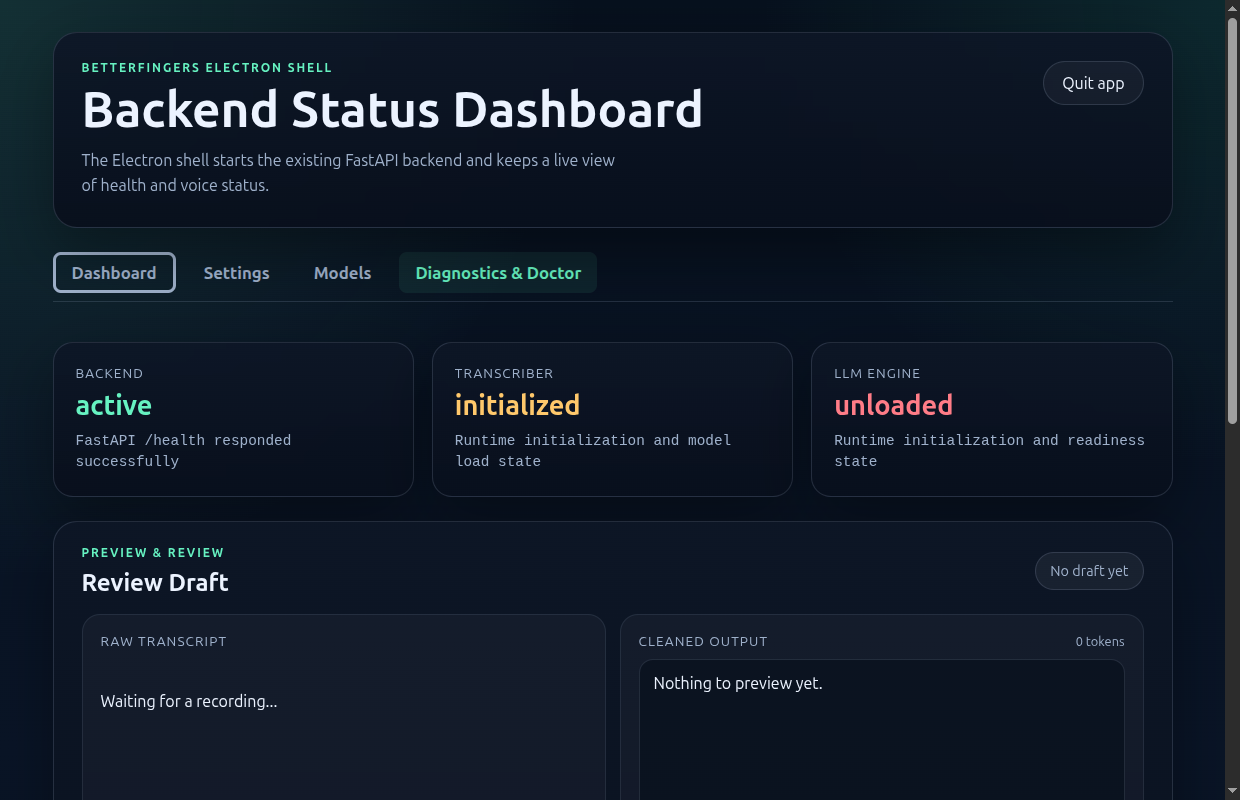
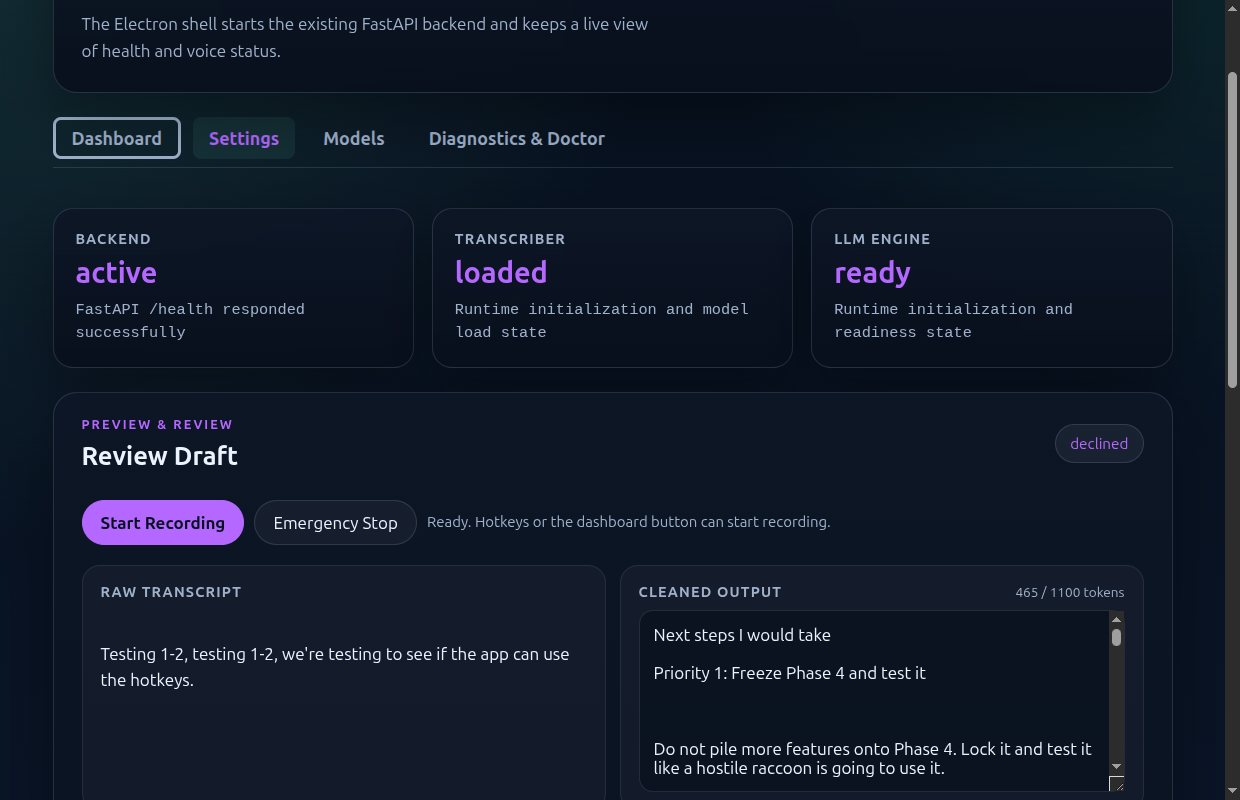
Testing Confirm

diff --git a/app/tests/electron-smoke.spec.js b/app/tests/electron-smoke.spec.js
@@ -1,7 +1,6 @@
 const { test, expect } = require('@playwright/test');
 const { _electron: electron } = require('playwright');
 const path = require('node:path');
-const fs = require('node:fs');
 
 test.describe('BetterFingers Electron App Tests', () => {
   let app;
@@ -18,8 +17,18 @@ test.describe('BetterFingers Electron App Tests', () => {
       },
     });
 
-    // Wait for the first window to open
-    window = await app.firstWindow();
+    // Wait for the main window (index.html) to open and load
+    const windows = app.windows();
+    window = windows.find(w => w.url().includes('index.html'));
+    if (!window) {
+      window = await app.waitForEvent('window', {
+        predicate: (w) => w.url().includes('index.html'),
+        timeout: 20000,
+      });
+    }
+
+    await window.waitForLoadState('domcontentloaded');
+    await window.waitForSelector('#backendStatus', { state: 'attached', timeout: 15000 });
   });
 
   test.afterAll(async () => {
@@ -35,37 +44,195 @@ test.describe('BetterFingers Electron App Tests', () => {
   });
 
   test('Backend transitions to active/ready state', async () => {
-    // The backend should respond and transition to active
     const statusLocator = window.locator('#backendStatus');
-    await expect(statusLocator).toHaveText(/ready|active|running/i, { timeout: 15000 });
+    await expect(statusLocator).toHaveText(/ready|active|running|external/i, { timeout: 15000 });
   });
 
   test('Tab navigation switching works', async () => {
-    // Check Dashboard content is visible initially
     await expect(window.locator('#tabDashboard')).toBeVisible();
     await expect(window.locator('#tabSettings')).not.toBeVisible();
 
-    // Click Settings Tab
     await window.click('#tabButtonSettings');
     await expect(window.locator('#tabSettings')).toBeVisible();
     await expect(window.locator('#tabDashboard')).not.toBeVisible();
 
-    // Click Models Tab
     await window.click('#tabButtonModels');
     await expect(window.locator('#tabModels')).toBeVisible();
     await expect(window.locator('#tabSettings')).not.toBeVisible();
 
-    // Click Diagnostics Tab
     await window.click('#tabButtonDiagnostics');
     await expect(window.locator('#tabDiagnostics')).toBeVisible();
     await expect(window.locator('#tabModels')).not.toBeVisible();
   });
 
-  test('Hotkey input records multiple keys together', async () => {
-    // Navigate to settings tab
+  test('Settings page renders and category switching works', async () => {
     await window.click('#tabButtonSettings');
 
+    // Verify a couple of nav buttons are visible
+    const generalNavBtn = window.locator('.settings-nav-button[data-section="general"]');
+    const recordingNavBtn = window.locator('.settings-nav-button[data-section="recording"]');
+    await expect(generalNavBtn).toBeVisible();
+    await expect(recordingNavBtn).toBeVisible();
+
+    // General section is active by default
+    await expect(window.locator('.settings-section[data-section="general"]')).toHaveClass(/active/);
+    await expect(window.locator('.settings-section[data-section="recording"]')).toHaveClass(/hidden/);
+
+    // Switch to Recording section
+    await recordingNavBtn.click();
+    await expect(window.locator('.settings-section[data-section="recording"]')).toHaveClass(/active/);
+    await expect(window.locator('.settings-section[data-section="general"]')).toHaveClass(/hidden/);
+  });
+
+  test('Search filters rows', async () => {
+    await window.click('#tabButtonSettings');
+    const searchInput = window.locator('#settingsSearchInput');
+    await expect(searchInput).toBeVisible();
+
+    // Query a specific settings row
+    await searchInput.fill('instant typing');
+    
+    // Search Results header should appear
+    await expect(window.locator('#settingsSearchHeader')).toBeVisible();
+
+    // Instant Typing row should be visible
+    const instantTypingRow = window.locator('.setting-row:has-text("Instant Typing")');
+    await expect(instantTypingRow).toBeVisible();
+
+    // Non-matching row should be hidden
+    const whisperChunkRow = window.locator('.setting-row:has-text("Whisper Chunk Size")');
+    await expect(whisperChunkRow).not.toBeVisible();
+
+    // Clear search
+    await searchInput.fill('');
+    await expect(window.locator('#settingsSearchHeader')).toHaveClass(/hidden/);
+  });
+
+  test('Invalid token limit blocks save', async () => {
+    await window.click('#tabButtonSettings');
+    
+    // Go to AI Cleanup section where Output Token Limit is located
+    await window.click('.settings-nav-button[data-section="ai-cleanup"]');
+    
+    const tokenLimitInput = window.locator('#settingOutputTokenLimit');
+    await expect(tokenLimitInput).toBeVisible();
+
+    // Fill with invalid value (allowed range: 900 - 1200)
+    await tokenLimitInput.fill('800');
+    
+    // Check that Save button is disabled
+    const saveButton = window.locator('#saveProfileButton');
+    await expect(saveButton).toBeDisabled();
+
+    // Restore to a valid value
+    await tokenLimitInput.fill('1000');
+  });
+
+  test('Duplicate hotkey blocks save', async () => {
+    await window.click('#tabButtonSettings');
+    await window.click('.settings-nav-button[data-section="hotkeys"]');
+
     const hotkeyInput = window.locator('#settingHotkey');
+    const forceStopInput = window.locator('#settingForceStopKey');
+    
+    // Clear and set both to the same key combination
+    await hotkeyInput.click();
+    await hotkeyInput.focus();
+    await window.keyboard.press('Control+Shift+H');
+    await hotkeyInput.blur();
+
+    await forceStopInput.click();
+    await forceStopInput.focus();
+    await window.keyboard.press('Control+Shift+H');
+    await forceStopInput.blur();
+
+    // Save button should be disabled due to collision validation error
+    const saveButton = window.locator('#saveProfileButton');
+    await expect(saveButton).toBeDisabled();
+
+    // Restore different values using clear button
+    await window.click('.setting-row:has(#settingForceStopKey) .clear-hotkey-btn');
+  });
+
+  test('Dirty-state appears and discard hides dirty state', async () => {
+    await window.click('#tabButtonSettings');
+    await window.click('.settings-nav-button[data-section="ai-cleanup"]');
+
+    const tokenLimitInput = window.locator('#settingOutputTokenLimit');
+    
+    // Make a change
+    await tokenLimitInput.fill('1050');
+
+    // Unsaved changes bar (settingsSaveBar) should become visible
+    const saveBar = window.locator('#settingsSaveBar');
+    await expect(saveBar).toHaveClass(/visible/);
+
+    // Click Discard
+    await window.click('#discardProfileChangesButton');
+    
+    // Save bar should be hidden again
+    await expect(saveBar).toHaveClass(/hidden/);
+  });
+
+  test('Appearance controls persist', async () => {
+    await window.click('#tabButtonSettings');
+    await window.click('.settings-nav-button[data-section="appearance"]');
+
+    const themeSelect = window.locator('#settingTheme');
+    const accentSelect = window.locator('#settingAccentColor');
+    const densitySelect = window.locator('#settingDensity');
+    const fontSizeSelect = window.locator('#settingFontSize');
+    const highContrastCheckbox = window.locator('#settingHighContrast');
+
+    // Change value states
+    await themeSelect.selectOption('dark');
+    await accentSelect.selectOption('purple');
+    await densitySelect.selectOption('compact');
+    await fontSizeSelect.selectOption('large');
+    
+    const isChecked = await highContrastCheckbox.isChecked();
+    await window.click('.setting-row:has(#settingHighContrast) .custom-switch-slider');
+
+    // Reload page to verify persistence via localStorage
+    await window.reload();
+    await window.waitForLoadState('domcontentloaded');
+    await window.waitForSelector('#backendStatus', { state: 'attached', timeout: 15000 });
+
+    await window.click('#tabButtonSettings');
+    await window.click('.settings-nav-button[data-section="appearance"]');
+
+    // Verify after reload that they are set
+    await expect(themeSelect).toHaveValue('dark');
+    await expect(accentSelect).toHaveValue('purple');
+    await expect(densitySelect).toHaveValue('compact');
+    await expect(fontSizeSelect).toHaveValue('large');
+    await expect(highContrastCheckbox).toBeChecked({ checked: !isChecked });
+  });
+
+  test('Diagnostics & Doctor checkup displays subsystem health', async () => {
+    await window.click('#tabButtonDiagnostics');
+    await window.click('#refreshDoctorButton');
+
+    // Wait for doctor cards to populate
+    const cardsGrid = window.locator('#doctorCardsGrid');
+    await expect(cardsGrid.locator('.doctor-card').first()).toBeVisible({ timeout: 15000 });
+
+    const cardHeaders = await cardsGrid.locator('.doctor-card-header').allTextContents();
+    expect(cardHeaders.length).toBeGreaterThanOrEqual(4);
+
+    // Verify sidecar console logs are rendered
+    const logsTail = window.locator('#sidecarLogsTail');
+    await expect(logsTail).not.toHaveText('Logs loading...');
+    const logsText = await logsTail.textContent();
+    expect(logsText).toContain('Checking backend port');
+  });
+
+  test('Hotkey input records multiple keys together', async () => {
+    await window.click('#tabButtonSettings');
+    await window.click('.settings-nav-button[data-section="hotkeys"]');
+
+    const hotkeyInput = window.locator('#settingHotkey');
+    await hotkeyInput.click();
     await hotkeyInput.focus();
 
     // Hold down F8, then 4, then t
@@ -81,35 +248,10 @@ test.describe('BetterFingers Electron App Tests', () => {
     await window.keyboard.up('4');
     await window.keyboard.up('F8');
 
-    // Unfocus to complete
     await hotkeyInput.blur();
   });
 
-  test('Diagnostics & Doctor checkup displays subsystem health', async () => {
-    // Switch to Diagnostics tab
-    await window.click('#tabButtonDiagnostics');
-
-    // Run Doctor Check
-    await window.click('#refreshDoctorButton');
-
-    // Wait for doctor cards to populate
-    const cardsGrid = window.locator('#doctorCardsGrid');
-    await expect(cardsGrid.locator('.doctor-card').first()).toBeVisible({ timeout: 10000 });
-
-    // Verify critical cards are present (e.g. STT, LLM, TTS, Audio, Platform)
-    const cardHeaders = await cardsGrid.locator('.doctor-card-header').allTextContents();
-    console.log('Detected Doctor Subsystem headers:', cardHeaders);
-    expect(cardHeaders.length).toBeGreaterThanOrEqual(4);
-
-    // Verify sidecar console logs are rendered
-    const logsTail = window.locator('#sidecarLogsTail');
-    await expect(logsTail).not.toHaveText('Logs loading...');
-    const logsText = await logsTail.textContent();
-    expect(logsText).toContain('Checking backend port');
-  });
-
   test('Capture screenshot of dashboard', async () => {
-    // Go back to dashboard tab
     await window.click('#tabButtonDashboard');
     await window.screenshot({ path: 'artifacts/betterfingers-dashboard-verified.png' });
   });